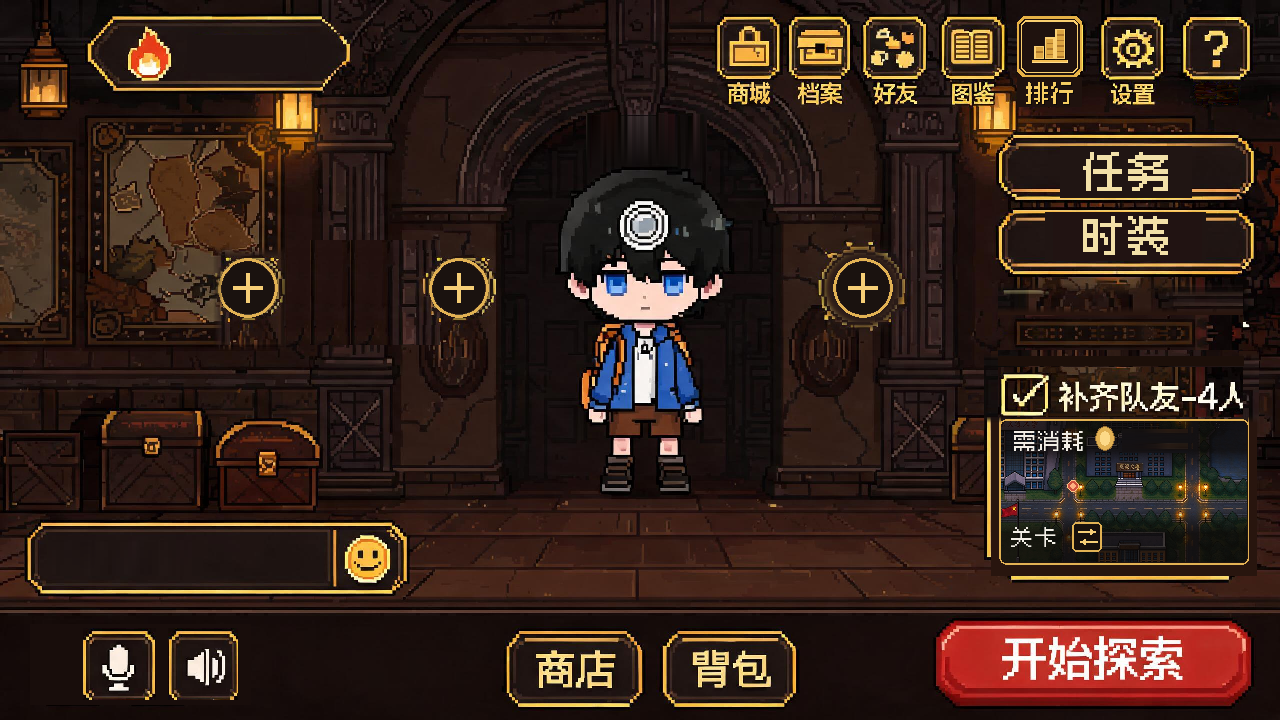
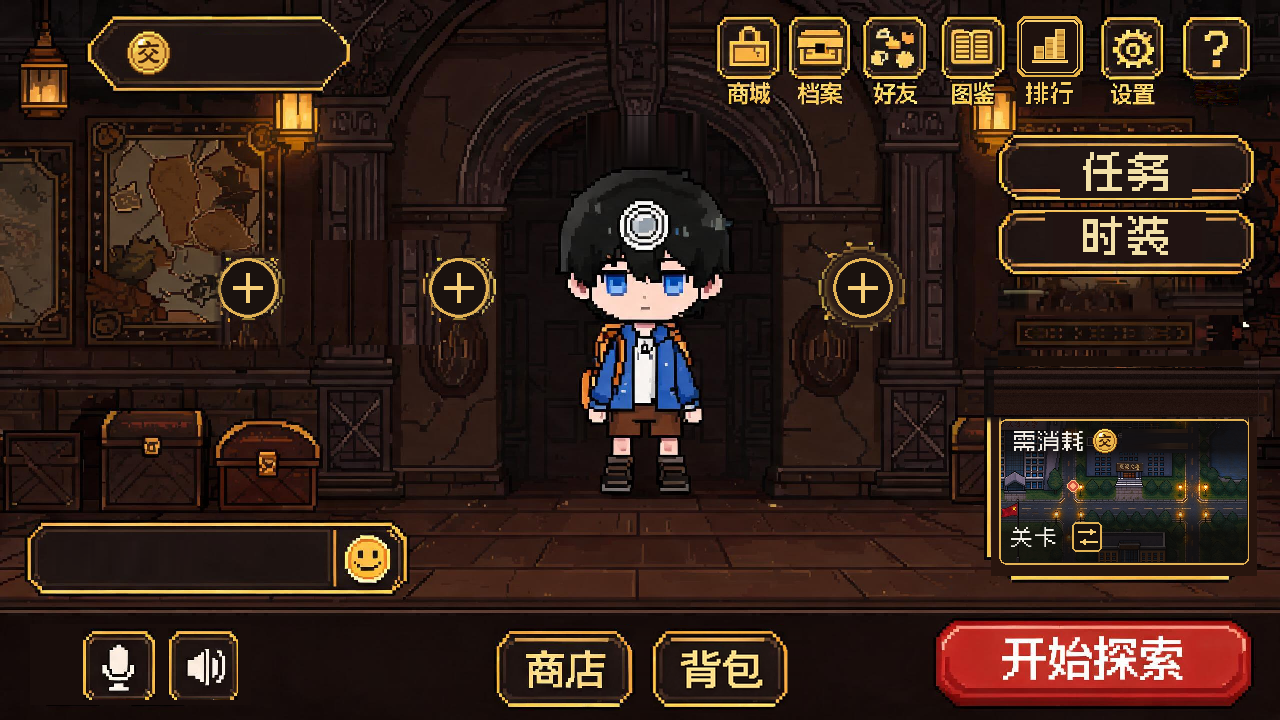
feat(lobby): 交子图标替换、移除补齐队友行、底部按钮左移
- 余额胶囊火焰图标换成交子金币，需消耗改为 100
- 移除补齐队友勾选行（背景涂抹 + 删除热区与样式）
- 商店/背包按钮整体左移 10px，背包切图更新并按金框对齐到 135px 宽
- 背景图缓存参数更新至 v=20261127i

Changed region(s): [[0.375, 0.8556, 0.625, 0.9778], [0.7812, 0.4889, 0.9688, 0.6417], [0.0938, 0.0306, 0.1562, 0.1222]]

diff --git a/src/style.css b/src/style.css
@@ -3864,7 +3864,7 @@ html:not([data-touch='true']) #stage .campus-map-dialog {
   width: 1280px;
   height: 720px;
   overflow: hidden;
-  background: #170e0d url('/assets/ui/lobby-v19-background.png?v=20261120b') center / 1280px 720px
+  background: #170e0d url('/assets/ui/lobby-v19-background.png?v=20261127i') center / 1280px 720px
     no-repeat;
   color: #fff0c2;
   font-family: 'Zpix', 'Microsoft YaHei', sans-serif;
@@ -3881,7 +3881,6 @@ html:not([data-touch='true']) #stage .campus-map-dialog {
 .v19-wallet,
 .v19-player-name,
 .v19-hotspot,
-.v19-fill-team,
 .v19-fill-cost,
 .v19-chat,
 .v19-risk-consent,
@@ -4034,42 +4033,6 @@ html:not([data-touch='true']) #stage .campus-map-dialog {
 }
 /* 三个队友位的金圈与圈内加号都已烘进背景图（11/12/13 队友槽），
    HTML 只保留可点击的透明热区，不能再画一遍「+」，否则大字号字符会压出重影。 */
-/* 背景图已画好勾选框与「补齐队友-4人」文字，HTML 只保留可点击的透明热区与勾选状态 */
-.v19-fill-team {
-  left: 1001px;
-  top: 371px;
-  width: 214px;
-  height: 48px;
-  display: flex;
-  align-items: center;
-  gap: 12px;
-  color: transparent;
-  font-size: 19px;
-  cursor: pointer;
-}
-.v19-fill-team span {
-  display: none;
-}
-.v19-fill-team input {
-  appearance: none;
-  flex: 0 0 46px;
-  width: 46px;
-  height: 41px;
-  margin: 0;
-  border: 3px solid #f4d37c;
-  border-radius: 3px;
-  background: #241310;
-  cursor: pointer;
-}
-.v19-fill-team input:checked::after {
-  content: '✓';
-  display: block;
-  color: #fff2cf;
-  font:
-    bold 27px/35px Arial,
-    sans-serif;
-  text-align: center;
-}
 /* 只渲染数字，紧接在背景图的金球右侧 */
 .v19-fill-cost {
   left: 1125px;
@@ -4192,19 +4155,19 @@ html:not([data-touch='true']) #stage .campus-map-dialog {
   background-image: url('/assets/ui/audio/volume-off-cream.png?v=20261119');
 }
 .v19-shop-bottom {
-  left: 504px;
+  left: 494px;
   top: 628px;
   width: 142px;
   height: 83px;
 }
 .v19-backpack {
-  left: 660px;
+  left: 650px;
   top: 628px;
   width: 136px;
   height: 83px;
 }
 /* 风险勾选：F01 要求的「勾选框」必须保留（未勾选时 startExploration 直接返回 false），
-   但用像素风金框重绘，与「补齐队友」的勾选框同一套视觉，不再用浏览器原生方块 */
+   用像素风金框重绘，不再用浏览器原生方块 */
 .v19-risk-consent {
   left: 802px;
   top: 654px;

diff --git a/src/modules/ui/reference-shell.ts b/src/modules/ui/reference-shell.ts
@@ -41,9 +41,7 @@ export function prepViewMarkup(): string {
               <button class="v19-hotspot v19-teammate v19-teammate-one" type="button" aria-label="邀请队友" data-open-room></button>
               <button class="v19-hotspot v19-teammate v19-teammate-two" type="button" aria-label="邀请队友" data-open-room></button>
               <button class="v19-hotspot v19-teammate v19-teammate-three" type="button" aria-label="邀请队友" data-open-room></button>
-
-              <label class="v19-fill-team"><input id="fill-team" type="checkbox" /><span>补齐队友-4人</span></label>
-              <div class="v19-fill-cost"><span>需要消耗</span><b aria-hidden="true">●</b><span>10000</span></div>
+              <div class="v19-fill-cost"><span>需要消耗</span><b aria-hidden="true">●</b><span>100</span></div>
               <button id="v19-map-open" class="v19-hotspot v19-map-card" type="button" aria-label="查看海淀校区地图"></button>
               <button id="mode-room" class="v19-hotspot v19-hidden-mode" type="button" aria-label="组队探索"></button>
               <!-- 联机房间页的程序化入口；v19 大厅的好友图标改为打开好友面板，房间仍由队友位与模式按钮进入。 -->
